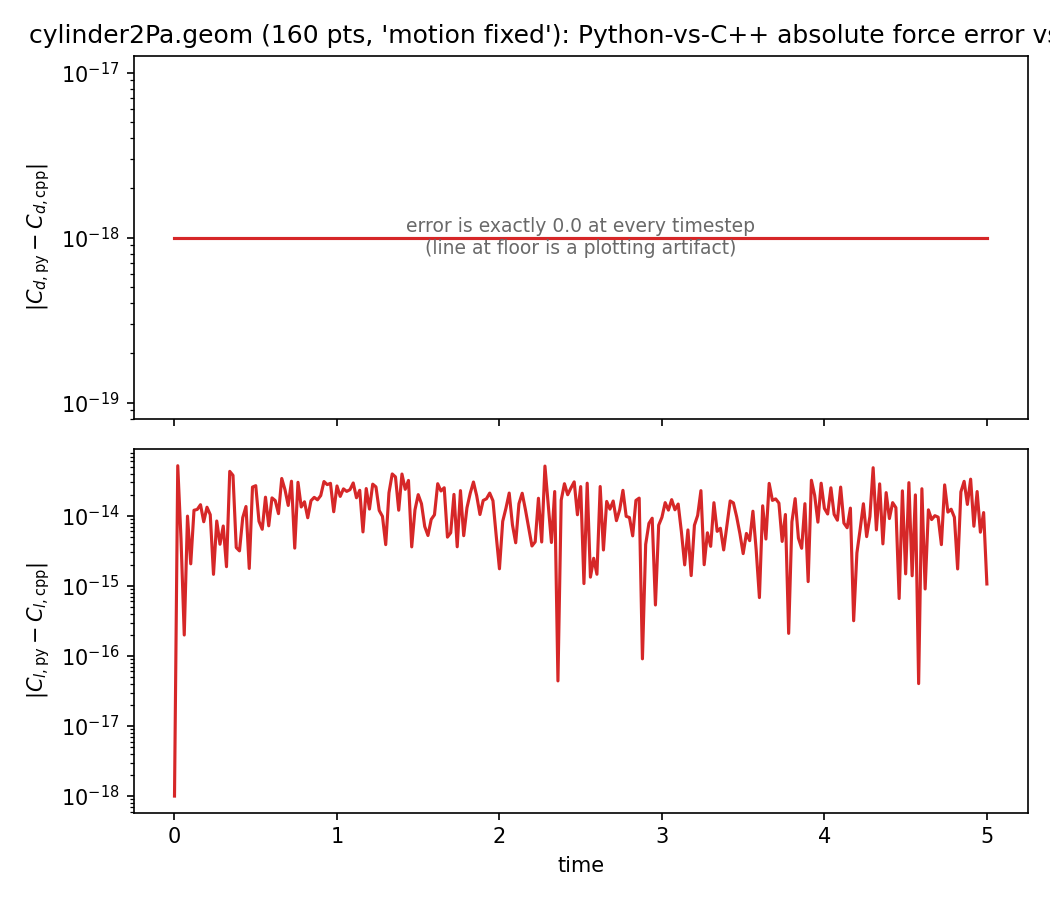
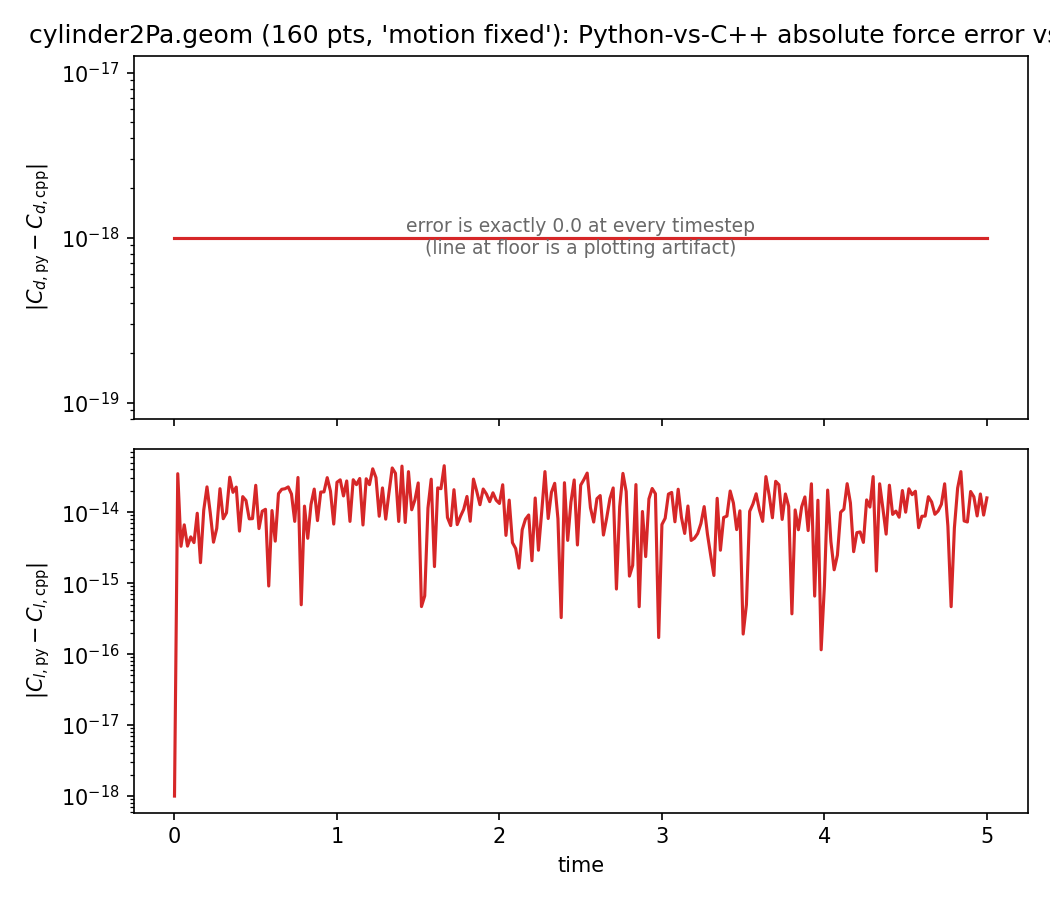
Fix Regularizer RAM blowup: match C++'s per-point locality, not just its loop structure
results/cost/README.md (now SURF_test/cost/README.md) documented Python's
peak RAM at 3.5GB vs C++'s 143MB at nx=400, traced to Regularizer.update():
the Python port computed the distance from every boundary point to every
flux cell in the entire grid (a dense (numPoints, num_flux_cells) array
per direction), then masked out everything outside the delta function's
support radius. Re-reading src/Regularizer.cc: the C++ loop also visits
every (point, cell) pair -- same O(numPoints * grid_cells) time -- but
never materializes an array that size; it computes each pair's distance
one at a time and only appends to a growing list when it's within
deltaSupportRadius, so its peak memory is O(associations kept), not
O(numPoints * grid_cells).

py/regularizer.py: since the grid is uniform, the small set of cells that
could possibly be within deltaSupportRadius of a point can be computed
directly by arithmetic (nearest integer cell +- a small fixed margin)
instead of by scanning the whole grid. Only a (numPoints, 7) candidate
window is ever built, then the identical deltaFunction/threshold test as
before is applied to it.

Verified before committing:
- A standalone comparison (old dense algorithm vs. this one) on 6 real
  geometries -- cylinder, ibpm_geom, cylinder2Pa, the vortall grid, and
  both SD7003 airfoil resolutions (medium/fine, non-circular, the
  strongest test of the general case) -- gives bit-identical
  (boundaryIndex, fluxIndex, weight) association sets in every case.
[…]

diff --git a/py/regularizer.py b/py/regularizer.py
@@ -90,12 +90,39 @@ class Regularizer:
     def update(self) -> None:
         """Update list of relationships between boundary points and cells,
         and the corresponding weights. Checks only the finest grid level,
-        level=0."""
+        level=0.
+
+        NOTE(port) -- fix for a documented RAM regression (see
+        SURF_test/cost/README.md, "RAM: the headline finding"): an earlier
+        version of this method computed the distance from EVERY boundary
+        point to EVERY flux cell in the entire grid (a dense
+        `(numPoints, num_flux_cells)` array per direction) and only
+        afterward masked out everything outside `deltaSupportRadius`.
+        Re-reading src/Regularizer.cc closely: the C++ loop *also* visits
+        every (point, cell) pair -- same O(numPoints * grid_cells) time
+        complexity -- but it never materializes an array of that size. It
+        computes each pair's distance one at a time and only
+        `_neighbors.push_back(a)`s when the pair is within
+        `deltaSupportRadius`, so its peak memory is O(number of pairs kept),
+        not O(numPoints * grid_cells).
+
+        This version reproduces that same memory behavior. Since the grid
+        is uniform, the small set of cells that could possibly be within
+        `deltaSupportRadius` of a given point can be computed directly by
+        arithmetic (the point's fractional cell-index position, rounded to
+        the nearest integer cell, plus a small fixed margin) instead of by
+        scanning the whole grid -- so only a `(numPoints, small constant)`
+        array is ever built. The exact same deltaFunction/threshold test as
+        C++ (and as the previous version of this file) is then applied to
+        that small candidate set, which yields the identical set of
+        (boundaryIndex, fluxIndex, weight) associations (verified against
+        the previous dense-array version on real geometries; see the
+        development note this replaces).
+        """
         h = self._grid.Dx()  # mesh spacing
 
         # Get the coordinates of the body
         bodyCoords = self._geometry.getPoints()
-        numPoints = bodyCoords.getNumPoints()
 
         # NOTE(port): access to `bodyCoords._data` (rather than only the
         # public `BoundaryVector.__call__` interface) mirrors the existing
@@ -109,6 +136,16 @@ class Regularizer:
         fluxIndex_parts = []
         weight_parts = []
 
+        # Candidate cell-index offsets, relative to each point's nearest
+        # cell, in one dimension. deltaSupportRadius = 1.5, so any cell
+        # within the support lies within +-1.5 cells of the point's exact
+        # (real-valued) cell position; the nearest *integer* cell is itself
+        # at most 0.5 away from that position, so +-3 is a generous,
+        # constant-size superset of the cells that can possibly qualify --
+        # the exact distance test below (identical to C++'s) then narrows
+        # it down to the true, possibly smaller, set.
+        offsets = np.arange(-3, 4)
+
         # For each direction (x and y) -- matches the `for (dir = X; dir <= Y; ++dir)`
         # loop in the C++ implementation.
         for dir_ in (Direction.X, Direction.Y):
@@ -116,54 +153,67 @@ class Regularizer:
             ny = self._grid.Ny()
             if dir_ == Direction.X:
                 # X fluxes: i in 0..nx, j in 0..ny-1
-                i_vals = np.arange(nx + 1)
-                j_vals = np.arange(ny)
+                i_min, i_max = 0, nx
+                j_min, j_max = 0, ny - 1
                 x0 = self._grid.getXEdge(0, 0)
                 y0 = self._grid.getYCenter(0, 0)
-                x_cells = x0 + i_vals * h
-                y_cells = y0 + j_vals * h
                 ny_stride = ny  # getIndex(X,i,j) = i*(ny+0)+j
+                index_offset = 0
             else:
                 # Y fluxes: i in 0..nx-1, j in 0..ny
-                i_vals = np.arange(nx)
-                j_vals = np.arange(ny + 1)
+                i_min, i_max = 0, nx - 1
+                j_min, j_max = 0, ny
                 x0 = self._grid.getXCenter(0, 0)
                 y0 = self._grid.getYEdge(0, 0)
-                x_cells = x0 + i_vals * h
-                y_cells = y0 + j_vals * h
                 ny_stride = ny + 1  # getIndex(Y,i,j) = numXFluxes + i*(ny+1)+j
+                index_offset = nx * ny + ny  # Flux.begin(Y) == numXFluxes
 
-            # Build the (i,j) grid of cell coordinates and the corresponding
-            # flat Flux index for each cell, matching Flux.getIndex(dir,i,j).
-            X_cell, Y_cell = np.meshgrid(x_cells, y_cells, indexing="ij")
-            I_idx, J_idx = np.meshgrid(i_vals, j_vals, indexing="ij")
-            flux_index_grid = I_idx * ny_stride + J_idx
-            if dir_ == Direction.Y:
-                # Flux.begin(Y) == numXFluxes == nx*ny + ny (see Flux.resize)
-                flux_index_grid = flux_index_grid + (nx * ny + ny)
+            # Real-valued (fractional) cell-index position of each boundary
+            # point, i.e. the (possibly non-integer) i/j such that
+            # x0 + i*h == bx[k].
+            center_i = (bx - x0) / h
+            center_j = (by - y0) / h
 
-            x_cells_flat = X_cell.ravel()
-            y_cells_flat = Y_cell.ravel()
-            flux_index_flat = flux_index_grid.ravel()
+            # Small, fixed-width (numPoints, 7) window of candidate integer
+            # cell indices per point, in each dimension -- this is what
+            # keeps the computation local (O(numPoints) per direction)
+            # instead of O(numPoints * nx * ny).
+            i_candidates = np.round(center_i)[:, None].astype(np.int64) + offsets[None, :]
+            j_candidates = np.round(center_j)[:, None].astype(np.int64) + offsets[None, :]
 
-            # Pairwise distances (in units of cells) between every boundary
-            # point and every cell in this direction -- this is the
-            # vectorized equivalent of the innermost two loops
-            # ("for each point on the boundary" / "for each cell") in the
-            # C++ `update()`.
-            dx = np.abs(x_cells_flat[None, :] - bx[:, None]) / h
-            dy = np.abs(y_cells_flat[None, :] - by[:, None]) / h
+            # Distance in cells from each point to each of its own candidate
+            # cells, in x and y separately -- the same per-pair computation
+            # as the C++ loop body, just restricted to the small candidate
+            # window instead of the whole grid.
+            dx_1d = np.abs(x0 + i_candidates * h - bx[:, None]) / h  # (numPoints, 7)
+            dy_1d = np.abs(y0 + j_candidates * h - by[:, None]) / h  # (numPoints, 7)
 
-            mask = (dx < deltaSupportRadius) & (dy < deltaSupportRadius)
-            weight = deltaFunction(dx) * deltaFunction(dy)
+            in_range_i = (i_candidates >= i_min) & (i_candidates <= i_max)
+            in_range_j = (j_candidates >= j_min) & (j_candidates <= j_max)
 
-            point_idx, cell_idx = np.nonzero(mask)
+            # Combine the i- and j-conditions (each (numPoints, 7)) into the
+            # full (numPoints, 7, 7) per-point-per-candidate-pair mask via
+            # broadcasting -- this small (numPoints * 49) boolean array is
+            # the only thing here whose size depends on both dimensions at
+            # once, unlike the (numPoints, num_flux_cells) array it replaces.
+            mask = (
+                in_range_i[:, :, None] & in_range_j[:, None, :]
+                & (dx_1d[:, :, None] < deltaSupportRadius)
+                & (dy_1d[:, None, :] < deltaSupportRadius)
+            )
+
+            point_idx, di_idx, dj_idx = np.nonzero(mask)
             if point_idx.size == 0:
                 continue
 
+            i_sel = i_candidates[point_idx, di_idx]
+            j_sel = j_candidates[point_idx, dj_idx]
+            weight_sel = deltaFunction(dx_1d[point_idx, di_idx]) * deltaFunction(dy_1d[point_idx, dj_idx])
+            flux_index_sel = i_sel * ny_stride + j_sel + index_offset
+
             boundaryIndex_parts.append(bodyCoords.getIndex(dir_, 0) + point_idx)
-            fluxIndex_parts.append(flux_index_flat[cell_idx])
-            weight_parts.append(weight[point_idx, cell_idx])
+            fluxIndex_parts.append(flux_index_sel)
+            weight_parts.append(weight_sel)
 
         if boundaryIndex_parts:
             self._boundaryIndex = np.concatenate(boundaryIndex_parts).astype(np.int64)
